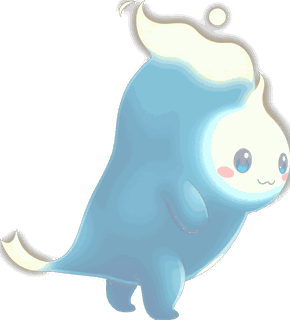
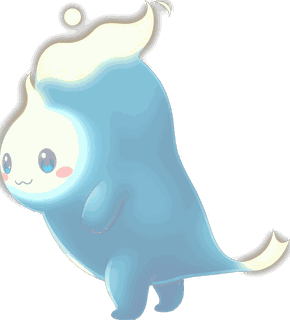
v0.99.0: ウィスプ4枚と魔導核の発射を反転する
報告:「ウィスプが逆を向いている」

ウィスプは待機・詠唱・発射・被弾の4枚とも右を向いていた。
プレイヤーは左に立つので、どの場面でも背を向けていたことになる。
v0.92.0 の時点で「blob と wisp だけが左向きでない」と分かっていたが、
確信が持てず手を付けずにいた ― その積み残し。

見直したついでに、魔導核(orb)の発射も1枚だけ右向きだった。
待機・詠唱・被弾の3枚は左向きなので、発射だけ裏返っていた形。

残る12種は、詠唱・発射・被弾を実寸で並べ直して確認した。
インプ・モリオオカミ・ガイコツ兵・呪鎧・蛇・甲虫・眼・魚・
スライム・植物 はいずれも左向きで問題なし
(疑っていた 騎士・蛇・魚の被弾も、拡大すると顔は左だった)。

diff --git a/shared/version.ts b/shared/version.ts
@@ -4,6 +4,6 @@
 // BUILD_DATE は npm run build のたびに tools/stamp-version.mjs が
 // 実際の時刻(日本時間)で書き換えるので、手で触らないこと。
 
-export const VERSION = '0.98.0';
-export const BUILD_DATE = '2026-08-08 20:29';
+export const VERSION = '0.99.0';
+export const BUILD_DATE = '2026-08-08 20:56';
 export const COPYRIGHT = 'Copyright © 2026 YuriPapa';
